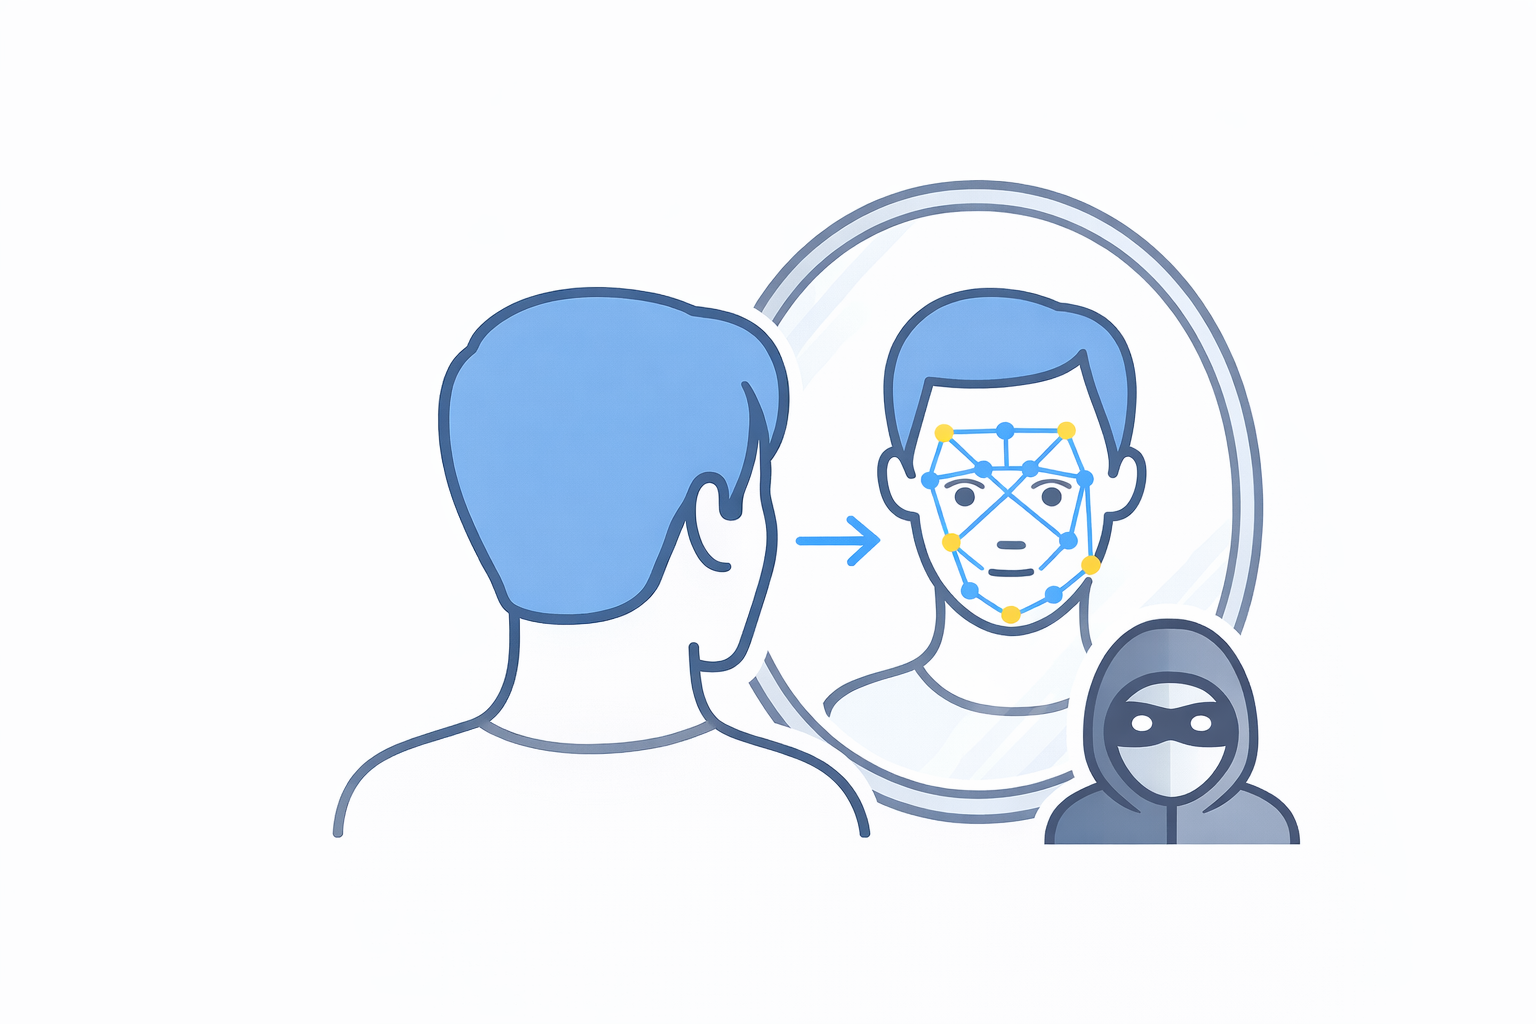
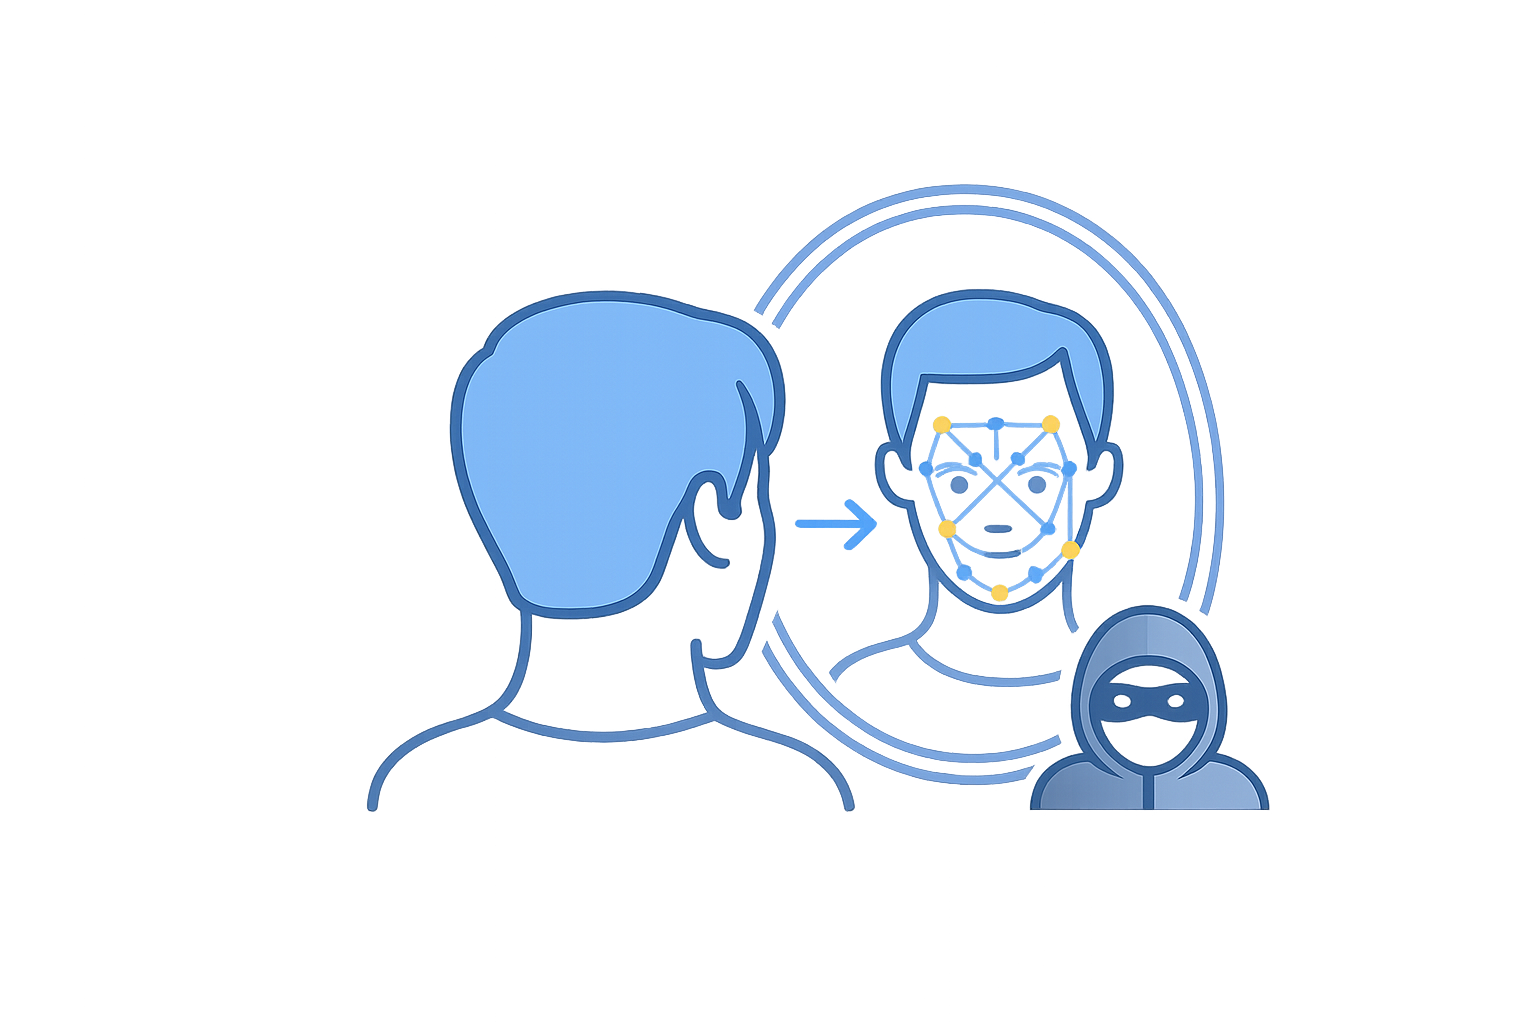
new background color

Changed region(s): [[0.2812, 0.1562, 0.8438, 0.8438], [0.2188, 0.7188, 0.2812, 0.8125]]

diff --git a/includes/modal.html b/includes/modal.html
@@ -9,14 +9,14 @@
                     <option value="">Select an option</option>
                     <option value="IAM Health Check">IAM Health Check</option>
                     <option value="IAM Strategy">IAM Strategy</option>
-                    <option value="Vendor Evaluation">Vendor Evaluations</option>
+                    <option value="Vendor Evaluation">Vendor Proof-of-Concepts</option>
                     <option value="Identity Verification">Identity Verification</option>
                     <option value="Single Sign-On">Single Sign-On</option>
                     <option value="Multi-Factor Authentication">Multi-Factor Authentication</option>
                     <option value="Passwordless Authentication">Passwordless Authentication</option>
-                    <option value="Proof of Concept ">Rapid Prototyping</option>
-                    <option value="AI Agent Security">AI Agent Security</option>
                     <option value="Conversational AI">Conversational AI</option>
+                    <option value="AI Agent Development">AI Agent Development</option>
+                    <option value="AI Agent Security">AI Agent Security</option>
                 </select>
                 <div class="field-error" id="helpWith-error"></div>
             </div>

diff --git a/lab.html b/lab.html
@@ -56,7 +56,7 @@
         }
         
         .article-featured-img {
-            background: #fff !important;
+            background: #F9F8F5 !important;
             height: 295px;
             flex-shrink: 0;
         }
@@ -95,7 +95,7 @@
         }
         
         .article-compact {
-            background: #fff;
+            background: #F9F8F5;
             border: 0.5px solid #e5e5e5;
             border-radius: 8px;
             overflow: hidden;
@@ -121,7 +121,7 @@
             display: flex;
             align-items: center;
             justify-content: center;
-            background: #fff;
+            background: #F9F8F5;
         }
         
         .article-compact-img img {
@@ -416,7 +416,7 @@
             <a href="lab/passkey-demo.html" style="text-decoration: none; color: inherit;">
                 <div class="article-featured">
                     <div class="article-featured-img">
-                        <img src="static/images/passkey.png" alt="Passkey Authentication">
+                        <img src="static/images/passkey-icon.png" alt="Passkey Authentication">
                     </div>
                     <div class="article-featured-body">
                         <span class="tag">Featured</span>

diff --git a/static/styles.css b/static/styles.css
@@ -10,7 +10,7 @@ html, body {
 
 body { 
     font-family: 'Inter', sans-serif; 
-    background: #fff; 
+    background: #F9F8F5; 
     color: #1a1a1a; 
 }
 
@@ -28,7 +28,7 @@ header {
     position: sticky;
     top: 0;
     z-index: 100;
-    background: white;
+    background: #F9F8F5;
 }
 
 header::after {
@@ -356,7 +356,7 @@ footer span {
 
 /* CONTENT PAGES */
 .content-page {
-    background: #fff;
+    background: #F9F8F5;
 }
 
 /* LISTING PAGES */
@@ -431,7 +431,7 @@ footer span {
     display: flex;
     align-items: center;
     justify-content: center;
-    background: #fff;
+    background: #F9F8F5;
 }
 
 .page-wrapper.article-page .article-hero-img {
@@ -697,7 +697,7 @@ footer span {
 }
 
 .article-featured {
-    background: #fff;
+    background: #F9F8F5;
     border-radius: 12px;
     overflow: hidden;
     box-shadow: 0 2px 8px rgba(0,0,0,0.04);
@@ -764,7 +764,7 @@ footer span {
 }
 
 .article-row {
-    background: #fff;
+    background: #F9F8F5;
     border-radius: 10px;
     padding: 16px;
     display: flex;
@@ -824,7 +824,7 @@ footer span {
 }
 
 .article-mini {
-    background: #fff;
+    background: #F9F8F5;
     border-radius: 8px;
     padding: 20px;
     box-shadow: 0 2px 8px rgba(0,0,0,0.04);

diff --git a/insights.html b/insights.html
@@ -63,7 +63,7 @@
         }
         
         .article-featured-img {
-            background: #fff !important;
+            background: #F9F8F5 !important;
             height: 240px; /* Increased height from 200px to 240px */
             flex-shrink: 0;
             display: flex;
@@ -113,7 +113,7 @@
         }
         
         .article-compact {
-            background: #fff;
+            background: #F9F8F5;
             border: 0.5px solid #e5e5e5;
             border-radius: 8px;
             overflow: hidden;
@@ -141,7 +141,7 @@
             display: flex;
             align-items: center;
             justify-content: center;
-            background: #fff;
+            background: #F9F8F5;
         }
         
         .article-compact-img img {

diff --git a/research.html b/research.html
@@ -61,7 +61,7 @@
         }
         
         .article-featured-img {
-            background: #fff !important;
+            background: #F9F8F5 !important;
             height: 295px;
             flex-shrink: 0;
             display: flex;
@@ -111,7 +111,7 @@
         }
         
         .article-compact {
-            background: #fff;
+            background: #F9F8F5;
             border: 0.5px solid #e5e5e5;
             border-radius: 8px;
             overflow: hidden;
@@ -137,7 +137,7 @@
             display: flex;
             align-items: center;
             justify-content: center;
-            background: #fff;
+            background: #F9F8F5;
         }
         
         .article-compact-img img {

diff --git a/lab/passkey-demo.html b/lab/passkey-demo.html
@@ -41,7 +41,7 @@
             max-width: 1400px;
             margin: 0 auto;
             padding: 0;
-            background: #fff;
+            background: #FCFBF9;
             border: 1px solid #e5e5e5;
             border-radius: 12px;
             box-shadow: 0 2px 10px rgba(0, 0, 0, 0.06);
@@ -97,7 +97,7 @@
             border: 1px solid #e5e5e5;
             border-radius: 10px;
             box-shadow: 0 2px 8px rgba(0, 0, 0, 0.06);
-            background-color: #fefeff;
+            background-color: #FCFBF9;
             background-image: 
                 linear-gradient(rgba(0, 0, 0, 0.015) 1px, transparent 1px),
                 linear-gradient(90deg, rgba(0, 0, 0, 0.015) 1px, transparent 1px);

diff --git a/index.html b/index.html
@@ -74,7 +74,7 @@
             position: sticky;
             top: 0;
             z-index: 100;
-            background: white;
+            background: #F9F8F5;
             padding-left: 80px;
             padding-right: 80px;
         }

diff --git a/events.html b/events.html
@@ -294,7 +294,6 @@
     </header>
     <main>
         <div class="events-container">
-            <h1 class="year-heading">2026</h1>
             
             <div class="event-item">
                 <div class="event-icon">
